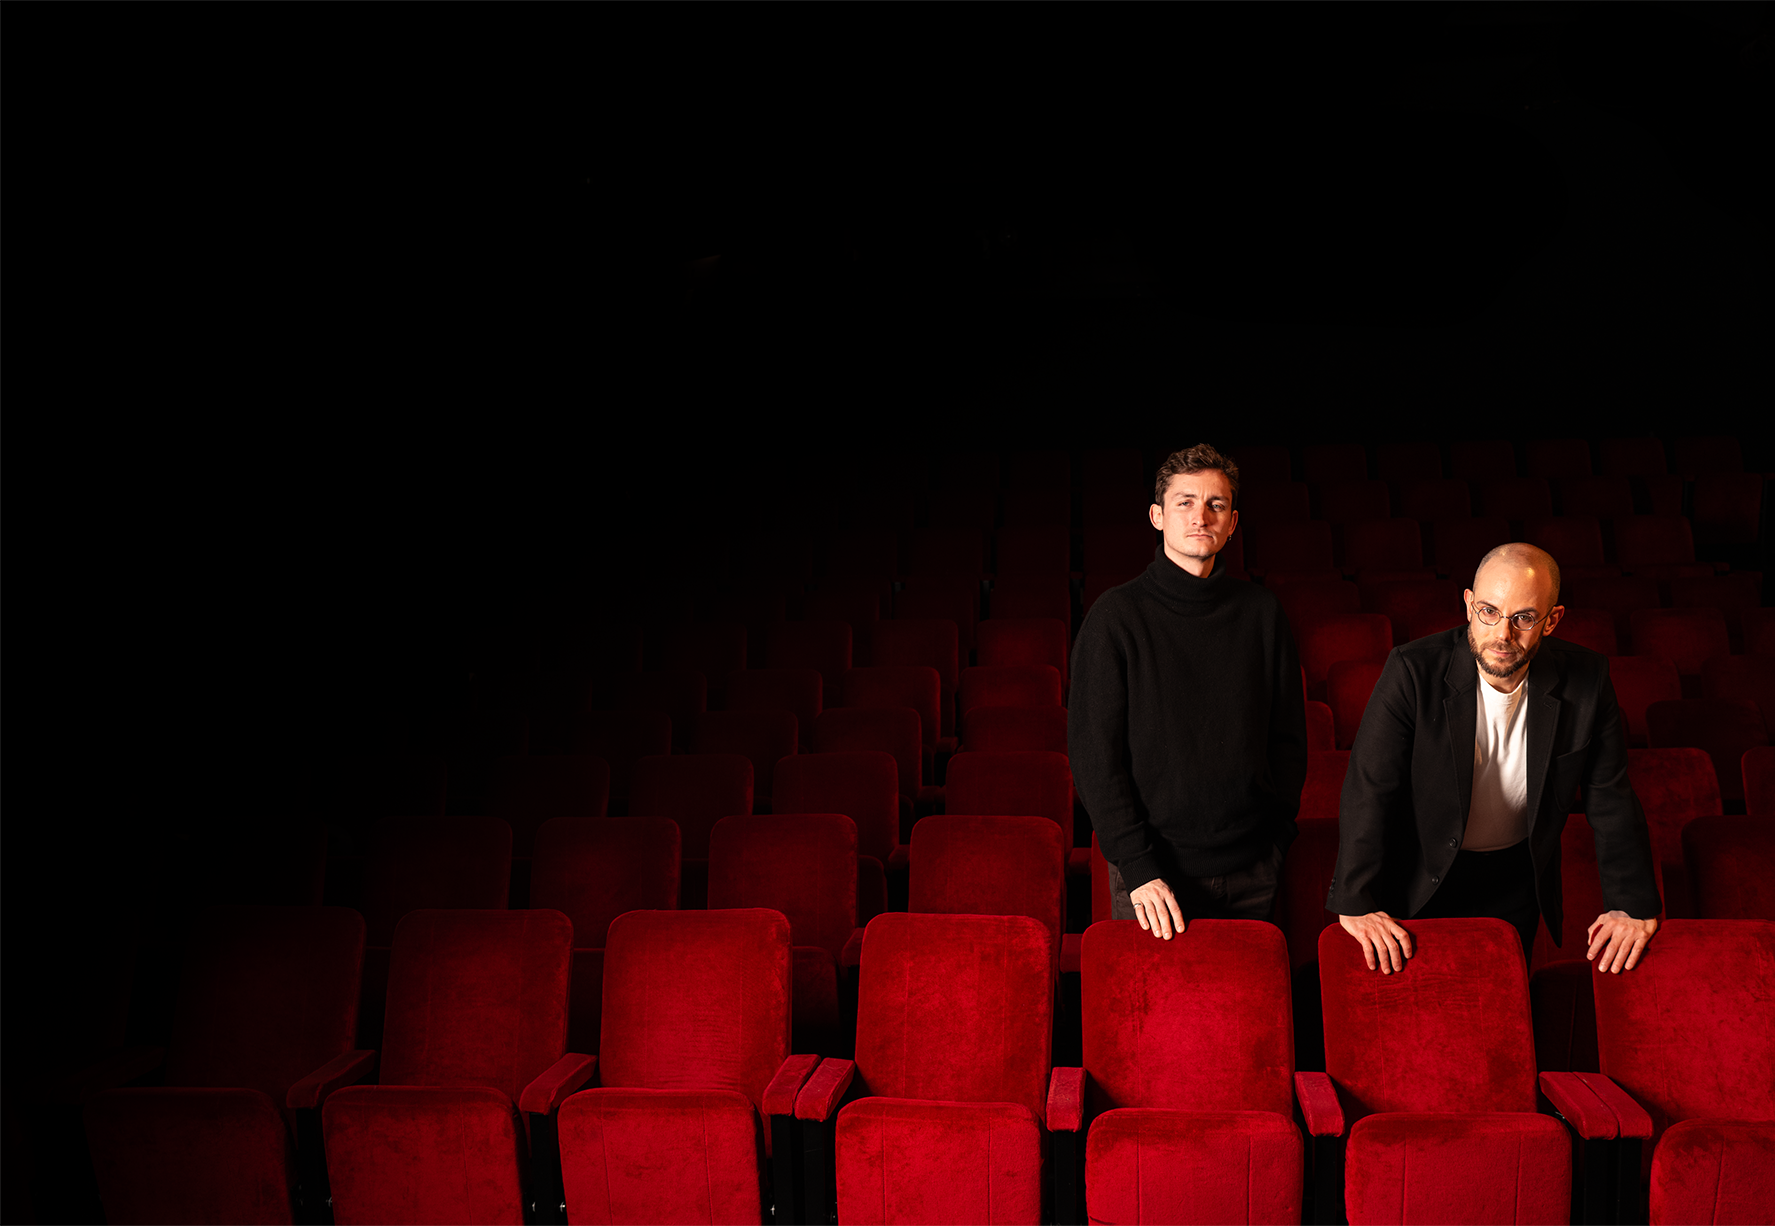
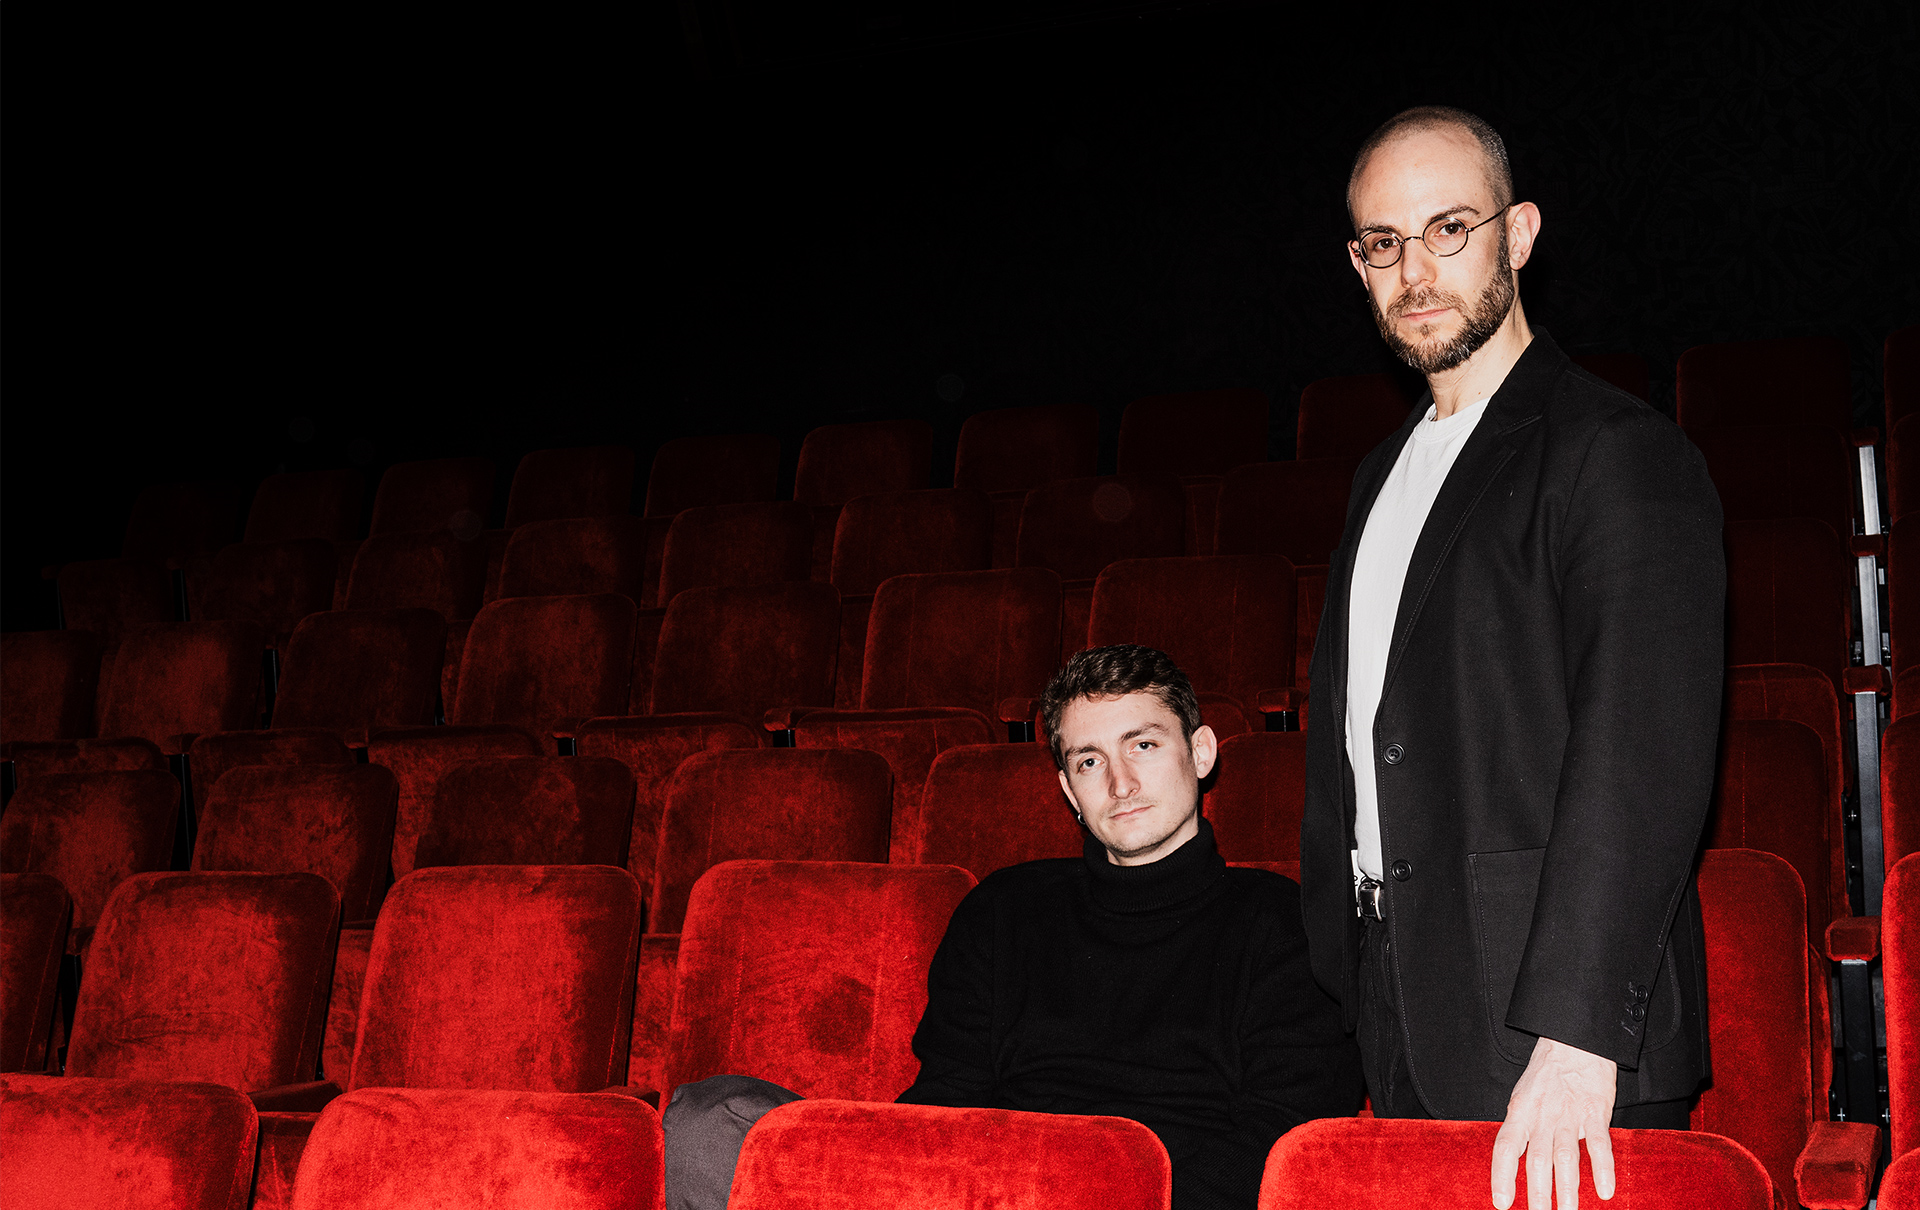
Modification image 3e slide carrousel

diff --git a/layouts/index.html b/layouts/index.html
@@ -92,7 +92,7 @@
                             <div class="min-h-full flex-[0_0_100%] flex-row bg-black duration-500 ease-in">
                                 {{ $img_clemovitch_ferdinand_theatre := resources.Get "img/clemovitch-ferdinand-theatre.png" }}
                                 <div
-                                    class="mt-[50%] min-h-full bg-cover bg-right-bottom py-10 sm:mt-[15%] md:mt-0 md:grid md:grid-cols-2"
+                                    class="mt-[50%] min-h-full bg-cover bg-[center_right_-100px] py-10 min-[500px]:bg-right sm:mt-[15%] md:mt-0 md:grid md:grid-cols-2"
                                     style="background-image: url('{{ $img_clemovitch_ferdinand_theatre.RelPermalink }}');">
                                     <div
                                         class="absolute mb-auto mt-[-50%] flex px-6 sm:mt-[-15%] md:relative md:my-auto lg:pl-32 lg:pr-0 xl:pl-44">
